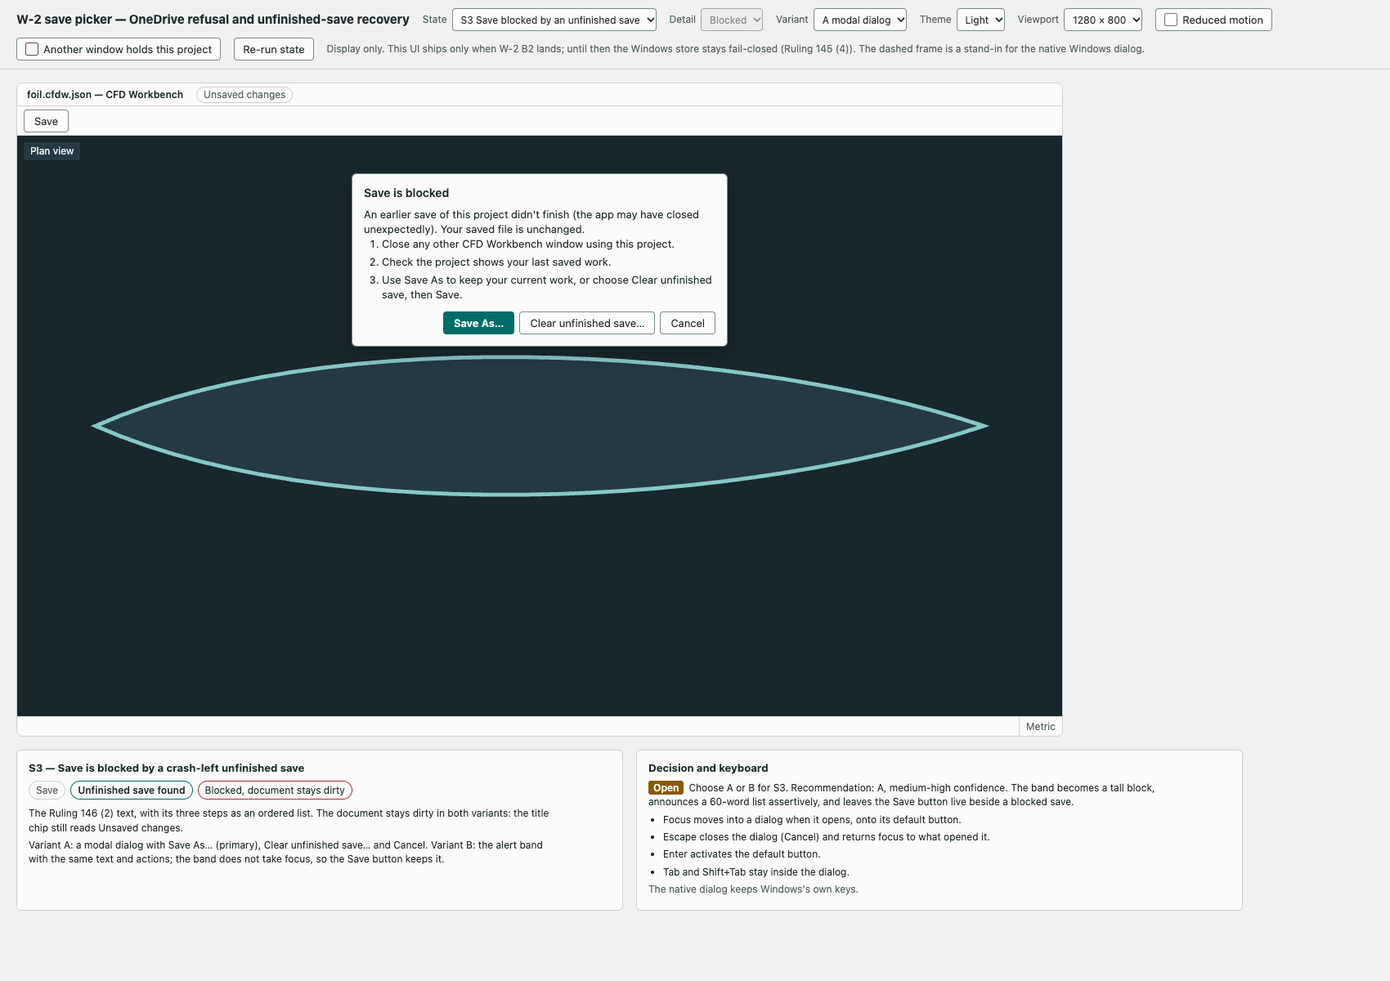
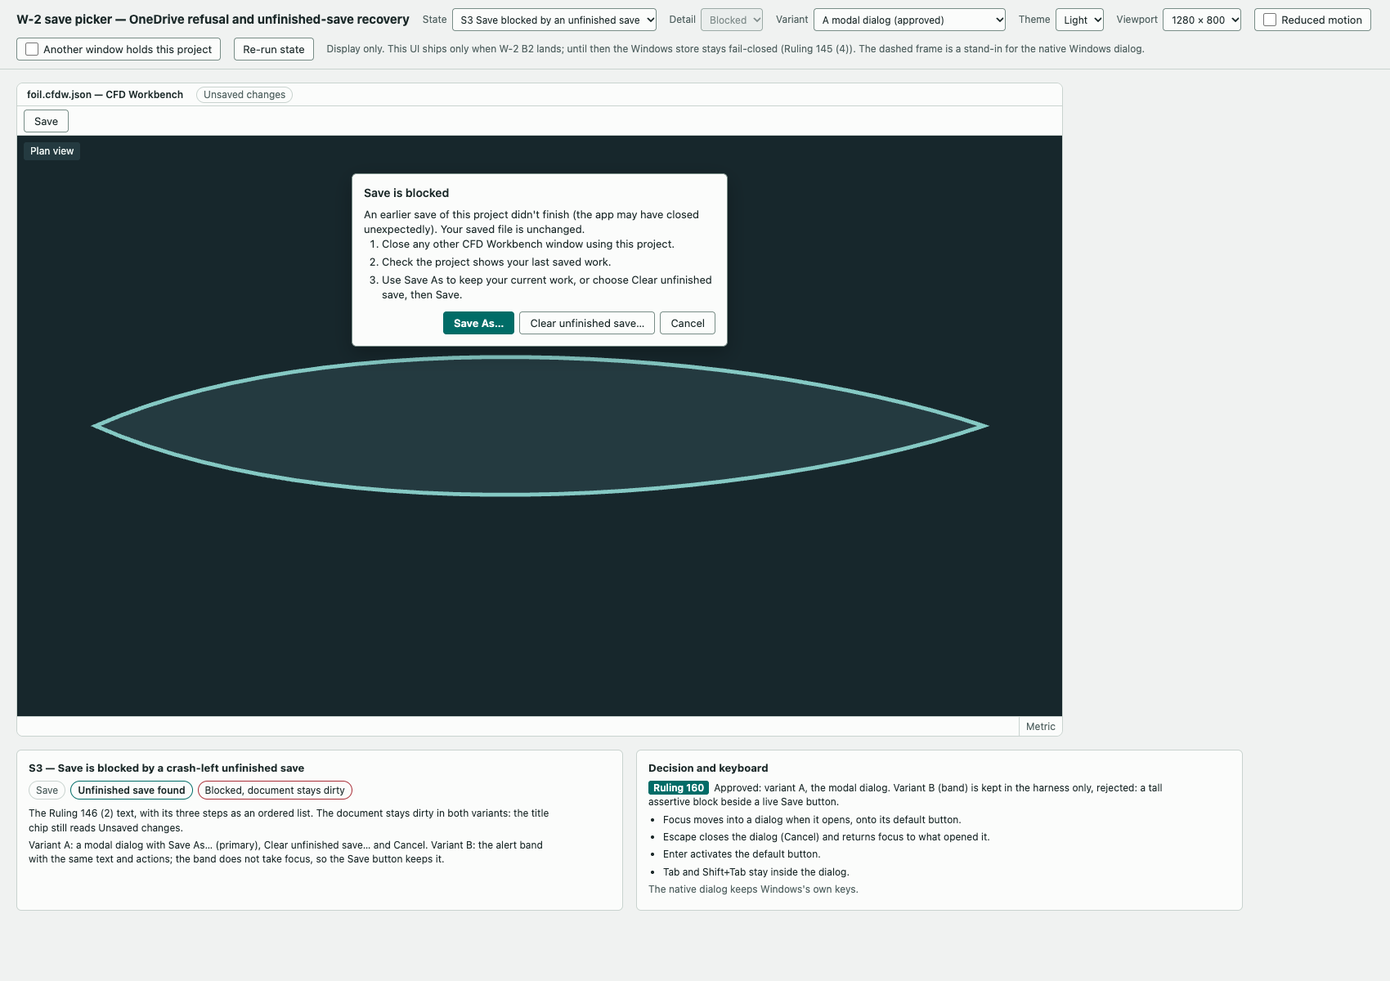
docs(mockup): W-2 save picker becomes the approved reference (Ruling 160)
Variant A default, B labelled rejected; S4 swaps the S3 dialog in place; the default folder is created at the first Save; rows COPY-440..457 approved.

Changed region(s): [[0.4676, 0.7708, 0.8418, 0.8325], [0.7171, 0.0, 0.9665, 0.0308], [0.6547, 0.0, 0.6859, 0.0308]]

diff --git a/docs/mockups/w2-save-picker.html b/docs/mockups/w2-save-picker.html
@@ -58,8 +58,6 @@ main{ padding:16px 20px 40px; min-width:1560px; }
 
 /* ---------- product dialogs (SaveSectionDialog / CatalogDialog idiom) ---------- */
 .dlg{ position:absolute; left:50%; top:110px; width:460px; transform:translateX(-50%); background:var(--surface); border:1px solid var(--control); border-radius:6px; box-shadow:0 8px 24px rgba(0,0,0,.28); display:flex; flex-direction:column; gap:8px; padding:14px; font-size:13px; line-height:18px; z-index:5; }
-.dlg.under{ z-index:4; }
-.dlg.confirm{ top:190px; z-index:6; }
 .dlg .dh{ font-weight:600; font-size:14px; margin:0; }
 .dlg p{ margin:0; }
 .dlg ol{ margin:0; padding-left:22px; display:flex; flex-direction:column; gap:4px; }
@@ -110,7 +108,7 @@ main{ padding:16px 20px 40px; min-width:1560px; }
     <option value="s5">S5 Waiting, saving and error floor</option>
   </select></label>
   <label class="ctl" for="detail">Detail <select id="detail"></select></label>
-  <label class="ctl" for="variant">Variant <select id="variant"><option value="A">A modal dialog</option><option value="B">B alert band</option></select></label>
+  <label class="ctl" for="variant">Variant <select id="variant"><option value="A">A modal dialog (approved)</option><option value="B">B alert band (rejected — Ruling 160)</option></select></label>
   <label class="ctl" for="theme">Theme <select id="theme"><option value="light">Light</option><option value="dark">Dark</option></select></label>
   <label class="ctl" for="vp">Viewport <select id="vp"><option value="1280">1280 × 800</option><option value="1500">1500 × 870</option></select></label>
   <label class="chk"><input type="checkbox" id="reduce"> Reduced motion</label>
@@ -192,7 +190,7 @@ function confirmDialog(result){
   return dialog('confirm', 'COPY-446', body, btn('COPY-445', 'cancel2', '', true) + act, 'confirm');
 }
 function nativeFrame(opts){
-  const folder = esc(opts.missing ? 'C:\\Users\\<you>' : 'C:\\Users\\<you>\\CFD Workbench');
+  const folder = esc('C:\\Users\\<you>\\CFD Workbench');
   return `<div class="native" tabindex="-1" role="group" aria-label="Windows save dialog — native, drawn by Windows" id="native" data-fk="native">
     <div class="cap" data-chrome>Windows save dialog — native, drawn by Windows <span>Stand-in frame; CFD Workbench does not draw it</span></div>
     ${opts.hint ? `<div class="hint" data-chrome>${opts.hint}</div>` : ''}
@@ -222,7 +220,7 @@ function view(){
     else { v.band = bandHtml('crash'); }
   }
   if (state === 's4') {
-    if (variant === 'B') v.band = bandHtml('crash'); else v.layer = crashDialog('under');
+    if (variant === 'B') v.band = bandHtml('crash');
     if (detail === 'cleared') { v.layer = ''; v.band = ''; v.status = 'COPY-452'; }
     else { v.layer += confirmDialog(detail === 'refused' ? 'refused' : ''); v.modal = 'dialog'; v.kind = 'confirm'; }
   }
@@ -231,8 +229,8 @@ function view(){
     if (detail === 'saving') v.status = 'COPY-452';
     if (detail === 'picker-failed') { v.status = 'COPY-453'; v.warn = true; }
     if (detail === 'check-failed') { if (variant === 'A') { v.layer = dialog('check', 'COPY-457', `<p class="err" data-copy="COPY-454">${esc(text('COPY-454'))}</p>`, btn('COPY-442', 'choose', 'primary', true) + btn('COPY-445', 'cancel')); v.modal = 'dialog'; v.kind = 'check'; } else v.band = bandHtml('check'); }
-    if (detail === 'clear-failed') { v.layer = crashDialog('under') + confirmDialog('failed'); v.modal = 'dialog'; v.kind = 'confirm'; }
-    if (detail === 'folder-missing') { v.layer = nativeFrame({ missing:true, hint:'If the app does not create the folder, Windows opens at the nearest folder that exists.' }); v.modal = 'native'; }
+    if (detail === 'clear-failed') { v.layer = confirmDialog('failed'); v.modal = 'dialog'; v.kind = 'confirm'; }
+    if (detail === 'folder-missing') { v.layer = nativeFrame({ hint:'The folder was missing. CFD Workbench created it silently at this first Save, just before opening this dialog.' }); v.modal = 'native'; }
   }
   return v;
 }
@@ -281,6 +279,7 @@ function setState(patch, reopen){
   Object.assign(S, patch);
   if (reopen) { S.closed = false; S.events = []; S.opener = $('saveBtn'); }
   if (reopen && S.state === 's2') { log('pick:onedrive'); log('check:onedrive'); log('refuse'); }
+  if (reopen && S.state === 's5' && S.detail === 'folder-missing') { log('save-attempt'); log('create-folder:default'); log('open-picker:default-folder'); }
   if (reopen && S.state === 's3') { log('save-attempt'); log('found:unfinished-save'); log('blocked'); }
   render();
 }
@@ -316,27 +315,27 @@ const NOTES = {
   s1:{ title:'S1 — first Save of a new project',
     shows:['The dashed frame is the native Windows dialog. Windows draws it; CFD Workbench controls three things, numbered on the frame: (1) the dialog title, (2) the start folder, (3) the suggested file name.',
            'The start folder is %USERPROFILE%\\CFD Workbench, shown as "CFD Workbench", not under Documents (Ruling 146 (3)). No product text is drawn in this state.'],
-    open:['Open question for the operator, not decided here: when %USERPROFILE%\\CFD Workbench does not exist, does the app create it, and when? (a) at first launch; (b) at the first Save, just before the picker opens; (c) never — Windows opens at the nearest existing folder and the user makes the folder. Detail "Default folder missing" in S5 shows (c).'],
+    open:['Decided: the default folder is created at the first Save, just before the picker opens, and only when missing. Nothing is shown for the creation.'],
     mac:'macOS: the native macOS save panel, no OneDrive rule.', flow:[['New project',1],['Save',1],['Native picker at the default folder',2]] },
   s2:{ title:'S2 — the user picked a folder inside OneDrive',
     shows:['Detection runs after the pick and before any write. Nothing is written into OneDrive.',
            'Variant A: a modal dialog with the Ruling 146 (1) text; Choose another folder… reopens the picker at the default folder. Variant B: the alert band carries the text and the picker reopens by itself, on top of the band.'],
-    open:['Choose A or B for S2. Recommendation: A, medium confidence. In B the reopened native picker covers the band, so the reason is read only after the user leaves the picker; the band is announced but not seen.'],
+    open:['Approved: variant A, the modal dialog. Variant B (band) is kept in the harness only, rejected: the reopened native picker covers the band.'],
     flow:[['Pick a folder',0],['Check for OneDrive (before any write)',2],['Refuse: nothing written',3],['Picker at default folder',0]] },
   s3:{ title:'S3 — Save is blocked by a crash-left unfinished save',
     shows:['The Ruling 146 (2) text, with its three steps as an ordered list. The document stays dirty in both variants: the title chip still reads Unsaved changes.',
            'Variant A: a modal dialog with Save As… (primary), Clear unfinished save… and Cancel. Variant B: the alert band with the same text and actions; the band does not take focus, so the Save button keeps it.'],
-    open:['Choose A or B for S3. Recommendation: A, medium-high confidence. The band becomes a tall block, announces a 60-word list assertively, and leaves the Save button live beside a blocked save.'],
+    open:['Approved: variant A, the modal dialog. Variant B (band) is kept in the harness only, rejected: a tall assertive block beside a live Save button.'],
     flow:[['Save',0],['Unfinished save found',2],['Blocked, document stays dirty',3]] },
   s4:{ title:'S4 — Clear unfinished save, the confirm step',
-    shows:['Clear unfinished save… opens this confirm step. It names what is removed and that no other window may use the project. The action never runs without this click and never announces a successful recovery.',
+    shows:['Clear unfinished save… swaps this dialog to the confirm step in place. It names what is removed and that no other window may use the project. The action never runs without this click and never announces a successful recovery.',
            'Outcome a (cleared): both surfaces close, the ordinary Save proceeds and shows its own Saving… status. Outcome b (refused): the dialog explains the refusal and offers Try again. Use the harness box "Another window holds this project" to choose the outcome when you click.'],
-    open:['Proposed: the Enter key and first focus go to Cancel, not to Clear unfinished save. A held Enter from the button that opened this step must not clear anything.'],
+    open:['Approved: Clear unfinished save… swaps the dialog content in place (one dialog, no stack). First focus and Enter go to Cancel; Escape and Cancel return to the blocked-save content.'],
     flow:[['Clear unfinished save…',0],['Confirm',2],['No-live-writer check',2],['Cleared → Save, or refused',3]] },
   s5:{ title:'S5 — the waiting, saving and error floor',
     shows:['Picker open, app waiting: the window is inert behind the native dialog and the strip says where to act. Save in progress: the strip carries the ordinary status. Picker failed: the strip warns and the document stays dirty.',
-           'OneDrive check failed follows the S2 variant. Clear failed shows inside the confirm step. Default folder missing is the empty state of S1.'],
-    open:['Proposed: if the OneDrive check itself fails, the save is refused (fail closed, Ruling 135). Confirm.'],
+           'OneDrive check failed follows the S2 variant. Clear failed shows inside the confirm step. Default folder missing shows the silent folder creation at the first Save, then the picker opening there.'],
+    open:['Approved: if the OneDrive check itself fails, the save is refused (fail closed, Ruling 135).'],
     flow:[['Waiting',0],['Saving',0],['Failed',3]] }
 };
 const CLAIMS = [['focus-in','Focus moves into a dialog when it opens, onto its default button.'],['esc','Escape closes the dialog (Cancel) and returns focus to what opened it.'],['enter','Enter activates the default button.'],['tab','Tab and Shift+Tab stay inside the dialog.']];
@@ -344,7 +343,7 @@ function renderNotes(){
   const n = NOTES[S.state];
   const flow = n.flow.map(f => `<li class="${f[1] === 2 ? 'on' : f[1] === 3 ? 'no' : ''}">${esc(f[0])}</li>`).join('');
   $('notes').innerHTML = `<section data-annot><h2>${esc(n.title)}</h2><ol class="flow" aria-label="Flow">${flow}</ol>${n.shows.map(s => `<p>${esc(s)}</p>`).join('')}${n.mac ? `<p class="mute">${esc(n.mac)}</p>` : ''}</section>
-  <section data-annot><h2>Decision and keyboard</h2>${n.open.map(s => `<p><span class="tag open">Open</span>${esc(s)}</p>`).join('')}<ul>${CLAIMS.map(c => `<li data-claim="${c[0]}">${esc(c[1])}</li>`).join('')}</ul><p class="mute">The native dialog keeps Windows's own keys.</p></section>`;
+  <section data-annot><h2>Decision and keyboard</h2>${n.open.map(s => `<p><span class="tag">Ruling 160</span>${esc(s)}</p>`).join('')}<ul>${CLAIMS.map(c => `<li data-claim="${c[0]}">${esc(c[1])}</li>`).join('')}</ul><p class="mute">The native dialog keeps Windows's own keys.</p></section>`;
 }
 
 // ---------------------------------------------------------------- harness

diff --git a/docs/docs-index.js b/docs/docs-index.js
@@ -4321,7 +4321,7 @@ window.DOCS_INDEX = {
       "phase": "ui-design",
       "reviewBy": "2026-12-31",
       "reviewSuggested": [],
-      "summary": "Three surfaces around the native Windows save dialog, shown before any build: the first Save of a new project (what CFD Workbench controls in the native dialog), the refusal when the user picks a OneDrive folder, and the block left by a crashed save with its Clear unfinished save step. Each of S2 and S3 has two variants, a modal dialog and the alert band. Ruling 146 copy is verbatim; the new sentences are proposed rows COPY-440 to COPY-457 awaiting the operator.",
+      "summary": "Three surfaces around the native Windows save dialog, shown before any build: the first Save of a new project (what CFD Workbench controls in the native dialog), the refusal when the user picks a OneDrive folder, and the block left by a crashed save with its Clear unfinished save step. Each of S2 and S3 has two variants, a modal dialog (approved) and the alert band (rejected). Ruling 146 copy is verbatim; the new rows COPY-440 to COPY-457 are approved by Ruling 160, which also picked variant A for S2 and S3. This page is now the approved reference; variant B stays in the harness, labelled rejected.",
       "tags": [
         "mockup",
         "w2",
@@ -4345,7 +4345,7 @@ window.DOCS_INDEX = {
         }
       ],
       "diagrams": [],
[2 lines of base64/hex data omitted]
     },
     {
       "id": "mockup-workbench",
@@ -17182,5 +17182,5 @@ window.DOCS_INDEX = {
       "artifactId": "coordination-windows-w0-w5-execution"
     }
   ],
[2 lines of base64/hex data omitted]
 };

diff --git a/docs/mockups/w2-save-picker.md b/docs/mockups/w2-save-picker.md
@@ -14,15 +14,15 @@ review-by: 2026-12-31
 summary: >-
   Three surfaces around the native Windows save dialog, shown before any build: the first Save of a new project (what
   CFD Workbench controls in the native dialog), the refusal when the user picks a OneDrive folder, and the block left by
-  a crashed save with its Clear unfinished save step. Each of S2 and S3 has two variants, a modal dialog and the alert
-  band. Ruling 146 copy is verbatim; the new sentences are proposed rows COPY-440 to COPY-457 awaiting the operator.
+  a crashed save with its Clear unfinished save step. Each of S2 and S3 has two variants, a modal dialog (approved) and the alert
+  band (rejected). Ruling 146 copy is verbatim; the new rows COPY-440 to COPY-457 are approved by Ruling 160, which also picked variant A for S2 and S3. This page is now the approved reference; variant B stays in the harness, labelled rejected.
 review-suggested: []
 ---
 
 # W-2 save picker — the mockup
 
 Open [`w2-save-picker.html`](w2-save-picker.html) over `file://`. The header switches the state (S1 to S5), its detail,
-the variant (A modal dialog, B alert band), the theme, the viewport (1280 × 800, 1500 × 870) and reduced motion. The box
+the variant (A modal dialog, approved and the default; B alert band, rejected by Ruling 160), the theme, the viewport (1280 × 800, 1500 × 870) and reduced motion. The box
 "Another window holds this project" chooses the outcome of Clear unfinished save. Captures are in
 [`w2-save-picker/`](w2-save-picker/). Oracle: `node tools/check-mockup-svp.mjs <node_modules dir> [<shot dir>]`.
 
@@ -59,13 +59,13 @@ WCAG 2.2 AA, keyboard).
 | State | What it shows | Variants |
 |---|---|---|
 | S1 | The native dialog stand-in; the three things the app controls (title, start folder `%USERPROFILE%\CFD Workbench`, suggested name `foil.cfdw.json`). | none |
-| S2 | Detection after the pick and before any write. Nothing is written into OneDrive. | A dialog; B band + picker reopens |
-| S3 | A crash-left unfinished save blocks Save. The document stays dirty. | A dialog; B band |
-| S4 | The confirm step of Clear unfinished save; outcome a (cleared, ordinary Save proceeds, no recovery announcement); outcome b (refused, another window holds it). | base under the confirm follows the variant |
-| S5 | Floor: picker open and app waiting; Save in progress; picker failed to open; OneDrive check failed (follows the S2 variant); Clear failed; default folder missing (S1's empty state). | check-failed follows the variant |
+| S2 | Detection after the pick and before any write. Nothing is written into OneDrive. | **A dialog (approved)**; B band + picker reopens (rejected) |
+| S3 | A crash-left unfinished save blocks Save. The document stays dirty. | **A dialog (approved)**; B band (rejected) |
+| S4 | The confirm step of Clear unfinished save, swapped in place into the S3 dialog (one dialog, no stack); outcome a (cleared, ordinary Save proceeds, no recovery announcement); outcome b (refused, another window holds it). | none approved; B kept for reference |
+| S5 | Floor: picker open and app waiting; Save in progress; picker failed to open; OneDrive check failed (follows the S2 variant); Clear failed; default folder missing (the folder is created silently at the first Save, then the picker opens there). | check-failed follows the variant |
 
 **Flows.** S2: Pick, then Check (before any write), then Refuse. S3-A: Save As… reopens the picker; Clear unfinished
-save… opens S4; Cancel closes and returns focus to Save. S4: Cancel returns to S3 with focus on Clear unfinished save…;
+save… swaps the dialog in place to the S4 confirm; Cancel closes and returns focus to Save. S4: Cancel and Escape swap back to the S3 content with focus on Clear unfinished save…;
 Clear unfinished save runs the no-live-writer check, then clears and the ordinary Save runs, or refuses.
 
 **Keyboard** (each has a handler and an oracle assertion): focus lands on the default button of a dialog; Escape closes it
@@ -85,41 +85,46 @@ place of `<code>`; the real code names are a build decision.
 
 | ID | Text | Status | Where |
 |---|---|---|---|
-| COPY-440 | Can't save to OneDrive | proposed — awaiting operator | S2-A dialog title |
-| COPY-441 | Save is blocked | proposed — awaiting operator | S3-A dialog title |
-| COPY-442 | Choose another folder… | proposed — awaiting operator | S2-A primary button; S5 OneDrive-check dialog |
-| COPY-443 | Save As… | proposed — awaiting operator | S3 primary button (dialog and band) |
-| COPY-444 | Clear unfinished save… | proposed — awaiting operator | S3 action that opens the confirm step |
-| COPY-445 | Cancel | proposed — awaiting operator | every dialog and the S3 band; reuse the existing Cancel label if the Labels lookup has one |
-| COPY-446 | Clear the unfinished save? | proposed — awaiting operator | S4 confirm title |
-| COPY-447 | This removes the leftover files from the save that didn't finish. Your saved file and your current work are not touched. It works only if no other CFD Workbench window is using this project. | proposed — awaiting operator | S4 confirm body |
-| COPY-448 | Clear unfinished save | proposed — awaiting operator | S4 confirm action (the Ruling 146 action name, no ellipsis because it acts) |
-| COPY-449 | Can't clear it yet: another CFD Workbench window is still using this project. Close that window, then try again. Your saved file and your current work are unchanged. | proposed — awaiting operator | S4 outcome b, inside the confirm dialog |
-| COPY-450 | Try again | proposed — awaiting operator | S4 outcome b and Clear failed; reuse the band's existing label |
-| COPY-451 | Choose where to save in the Windows dialog. | proposed — awaiting operator | S5 status strip while the picker is open |
-| COPY-452 | Saving… | proposed — awaiting operator | S4 outcome a and S5 status strip during a Save |
-| COPY-453 | Couldn't open the Windows save dialog (<code>). Nothing was saved. Your changes are kept and still marked unsaved. Try again. | proposed — awaiting operator | S5 status strip, warning kind |
-| COPY-454 | Couldn't check whether this folder is synced by OneDrive (<code>). Nothing was saved. Choose another folder. | proposed — awaiting operator | S5 OneDrive check failed (dialog or band) |
-| COPY-455 | Couldn't clear the unfinished save (<code>). Your saved file and your current work are unchanged. | proposed — awaiting operator | S5 Clear failed, inside the confirm dialog |
-| COPY-456 | Dismiss | proposed — awaiting operator | S2-B and check-failed band; the band's existing Dismiss |
-| COPY-457 | Can't check this folder | proposed — awaiting operator | S5 OneDrive-check dialog title |
+| COPY-440 | Can't save to OneDrive | approved — Ruling 160 | S2-A dialog title |
+| COPY-441 | Save is blocked | approved — Ruling 160 | S3-A dialog title |
+| COPY-442 | Choose another folder… | approved — Ruling 160 | S2-A primary button; S5 OneDrive-check dialog |
+| COPY-443 | Save As… | approved — Ruling 160 | S3 primary button (dialog and band) |
+| COPY-444 | Clear unfinished save… | approved — Ruling 160 | S3 action that opens the confirm step |
+| COPY-445 | Cancel | approved — Ruling 160 | every dialog and the S3 band; reuse the existing Cancel label if the Labels lookup has one |
+| COPY-446 | Clear the unfinished save? | approved — Ruling 160 | S4 confirm title |
+| COPY-447 | This removes the leftover files from the save that didn't finish. Your saved file and your current work are not touched. It works only if no other CFD Workbench window is using this project. | approved — Ruling 160 | S4 confirm body |
+| COPY-448 | Clear unfinished save | approved — Ruling 160 | S4 confirm action (the Ruling 146 action name, no ellipsis because it acts) |
+| COPY-449 | Can't clear it yet: another CFD Workbench window is still using this project. Close that window, then try again. Your saved file and your current work are unchanged. | approved — Ruling 160 | S4 outcome b, inside the confirm dialog |
+| COPY-450 | Try again | approved — Ruling 160 | S4 outcome b and Clear failed; reuse the band's existing label |
+| COPY-451 | Choose where to save in the Windows dialog. | approved — Ruling 160 | S5 status strip while the picker is open |
+| COPY-452 | Saving… | approved — Ruling 160 | S4 outcome a and S5 status strip during a Save |
+| COPY-453 | Couldn't open the Windows save dialog (<code>). Nothing was saved. Your changes are kept and still marked unsaved. Try again. | approved — Ruling 160 | S5 status strip, warning kind |
+| COPY-454 | Couldn't check whether this folder is synced by OneDrive (<code>). Nothing was saved. Choose another folder. | approved — Ruling 160 | S5 OneDrive check failed (dialog or band) |
+| COPY-455 | Couldn't clear the unfinished save (<code>). Your saved file and your current work are unchanged. | approved — Ruling 160 | S5 Clear failed, inside the confirm dialog |
+| COPY-456 | Dismiss | approved — Ruling 160 | S2-B and check-failed band; the band's existing Dismiss |
+| COPY-457 | Can't check this folder | approved — Ruling 160 | S5 OneDrive-check dialog title |
 
 S4's sentences are COPY-446, 447, 448, 449 (and 450, 455). No row announces a recovery: after Clear, the user sees only
 the ordinary Save status (COPY-452), per Ruling 146.
 
-## Open questions for the operator
+## Decisions (Ruling 160) and build notes
 
-1. **Folder creation (S1).** When `%USERPROFILE%\CFD Workbench` does not exist, does the app create it, and when? (a) at
-   first launch; (b) at the first Save, just before the picker opens; (c) never — Windows opens at the nearest existing
-   folder and the user makes the folder. Not decided here. S5 "Default folder missing" renders (c).
-2. **S2: dialog (A) or band (B).** Recommendation A.
-3. **S3: dialog (A) or band (B).** Recommendation A.
-4. **S4 default button.** Proposed: first focus and Enter go to Cancel, not Clear unfinished save, so a held Enter from the
-   opening button clears nothing.
-5. **If the OneDrive check itself fails (COPY-454).** Proposed: refuse (fail closed, Ruling 135) rather than save.
-6. **What "the leftover files" are (COPY-447).** The sentence names them generically. The PC side must confirm what the
-   unfinished save leaves, so the sentence can say it exactly.
-7. **Real code names** for the three `(<code>)` rows.
+The operator viewed the screenshots and decided everything as Ruling 160 (2026-10-08).
+
+1. **Folder creation (S1): decided.** `%USERPROFILE%\CFD Workbench` is created at the first Save, just before the picker
+   opens, and only when missing. The creation is silent (no copy). S5 "Default folder missing" shows it.
+2. **S2: decided, variant A** (modal dialog, COPY-440, Ruling 146 (1) text). B is rejected and kept in the harness only.
+3. **S3: decided, variant A** (modal dialog, COPY-441, Ruling 146 (2) text). B is rejected and kept in the harness only.
+4. **S4: decided.** Clear unfinished save… swaps the S3 dialog's content in place to the confirm (no stacked modal);
+   first focus and Enter go to Cancel; Escape and Cancel return to the S3 content.
+5. **OneDrive check failure: decided, refuse** (fail closed, Ruling 135), COPY-457 title, COPY-454 body.
+6. **Build note, open (waits on the PC):** what "the leftover files" are (COPY-447). The phrase stays until the PC states
+   what an unfinished save leaves on disk.
+7. **Build note, open (decided at build):** the real code names for the three `(<code>)` rows. The page shows `DOC-IO`.
+
+All rows COPY-440 to COPY-457 are approved as drafted. Reuse the existing Cancel, Try again and Dismiss labels (COPY-445,
+450, 456) and an existing Saving status line if one exists (COPY-452). The build ships only when W-2 B2 lands (Ruling 145
+(4)). The band-button token finding (`control-line` on `surface-soft`, 2.98:1) is a separate token fix.
 
 ## Captures
 
@@ -145,7 +150,7 @@ In `w2-save-picker/` (light unless named): `S1-first-save`, `S2-A-dialog`, `S2-B
 
 ## Critique
 
-Structure before surface. Severity: Major = change before build; Minor = fix in the build; Note = awareness.
+Written before Ruling 160; the S2-B, S3-B and S4-stack findings are resolved by it (A chosen, S4 swapped in place). Structure before surface. Severity: Major = change before build; Minor = fix in the build; Note = awareness.
 
 | Location | Dimension | Severity | Evidence | Fix | Confidence |
 |---|---|---|---|---|---|
